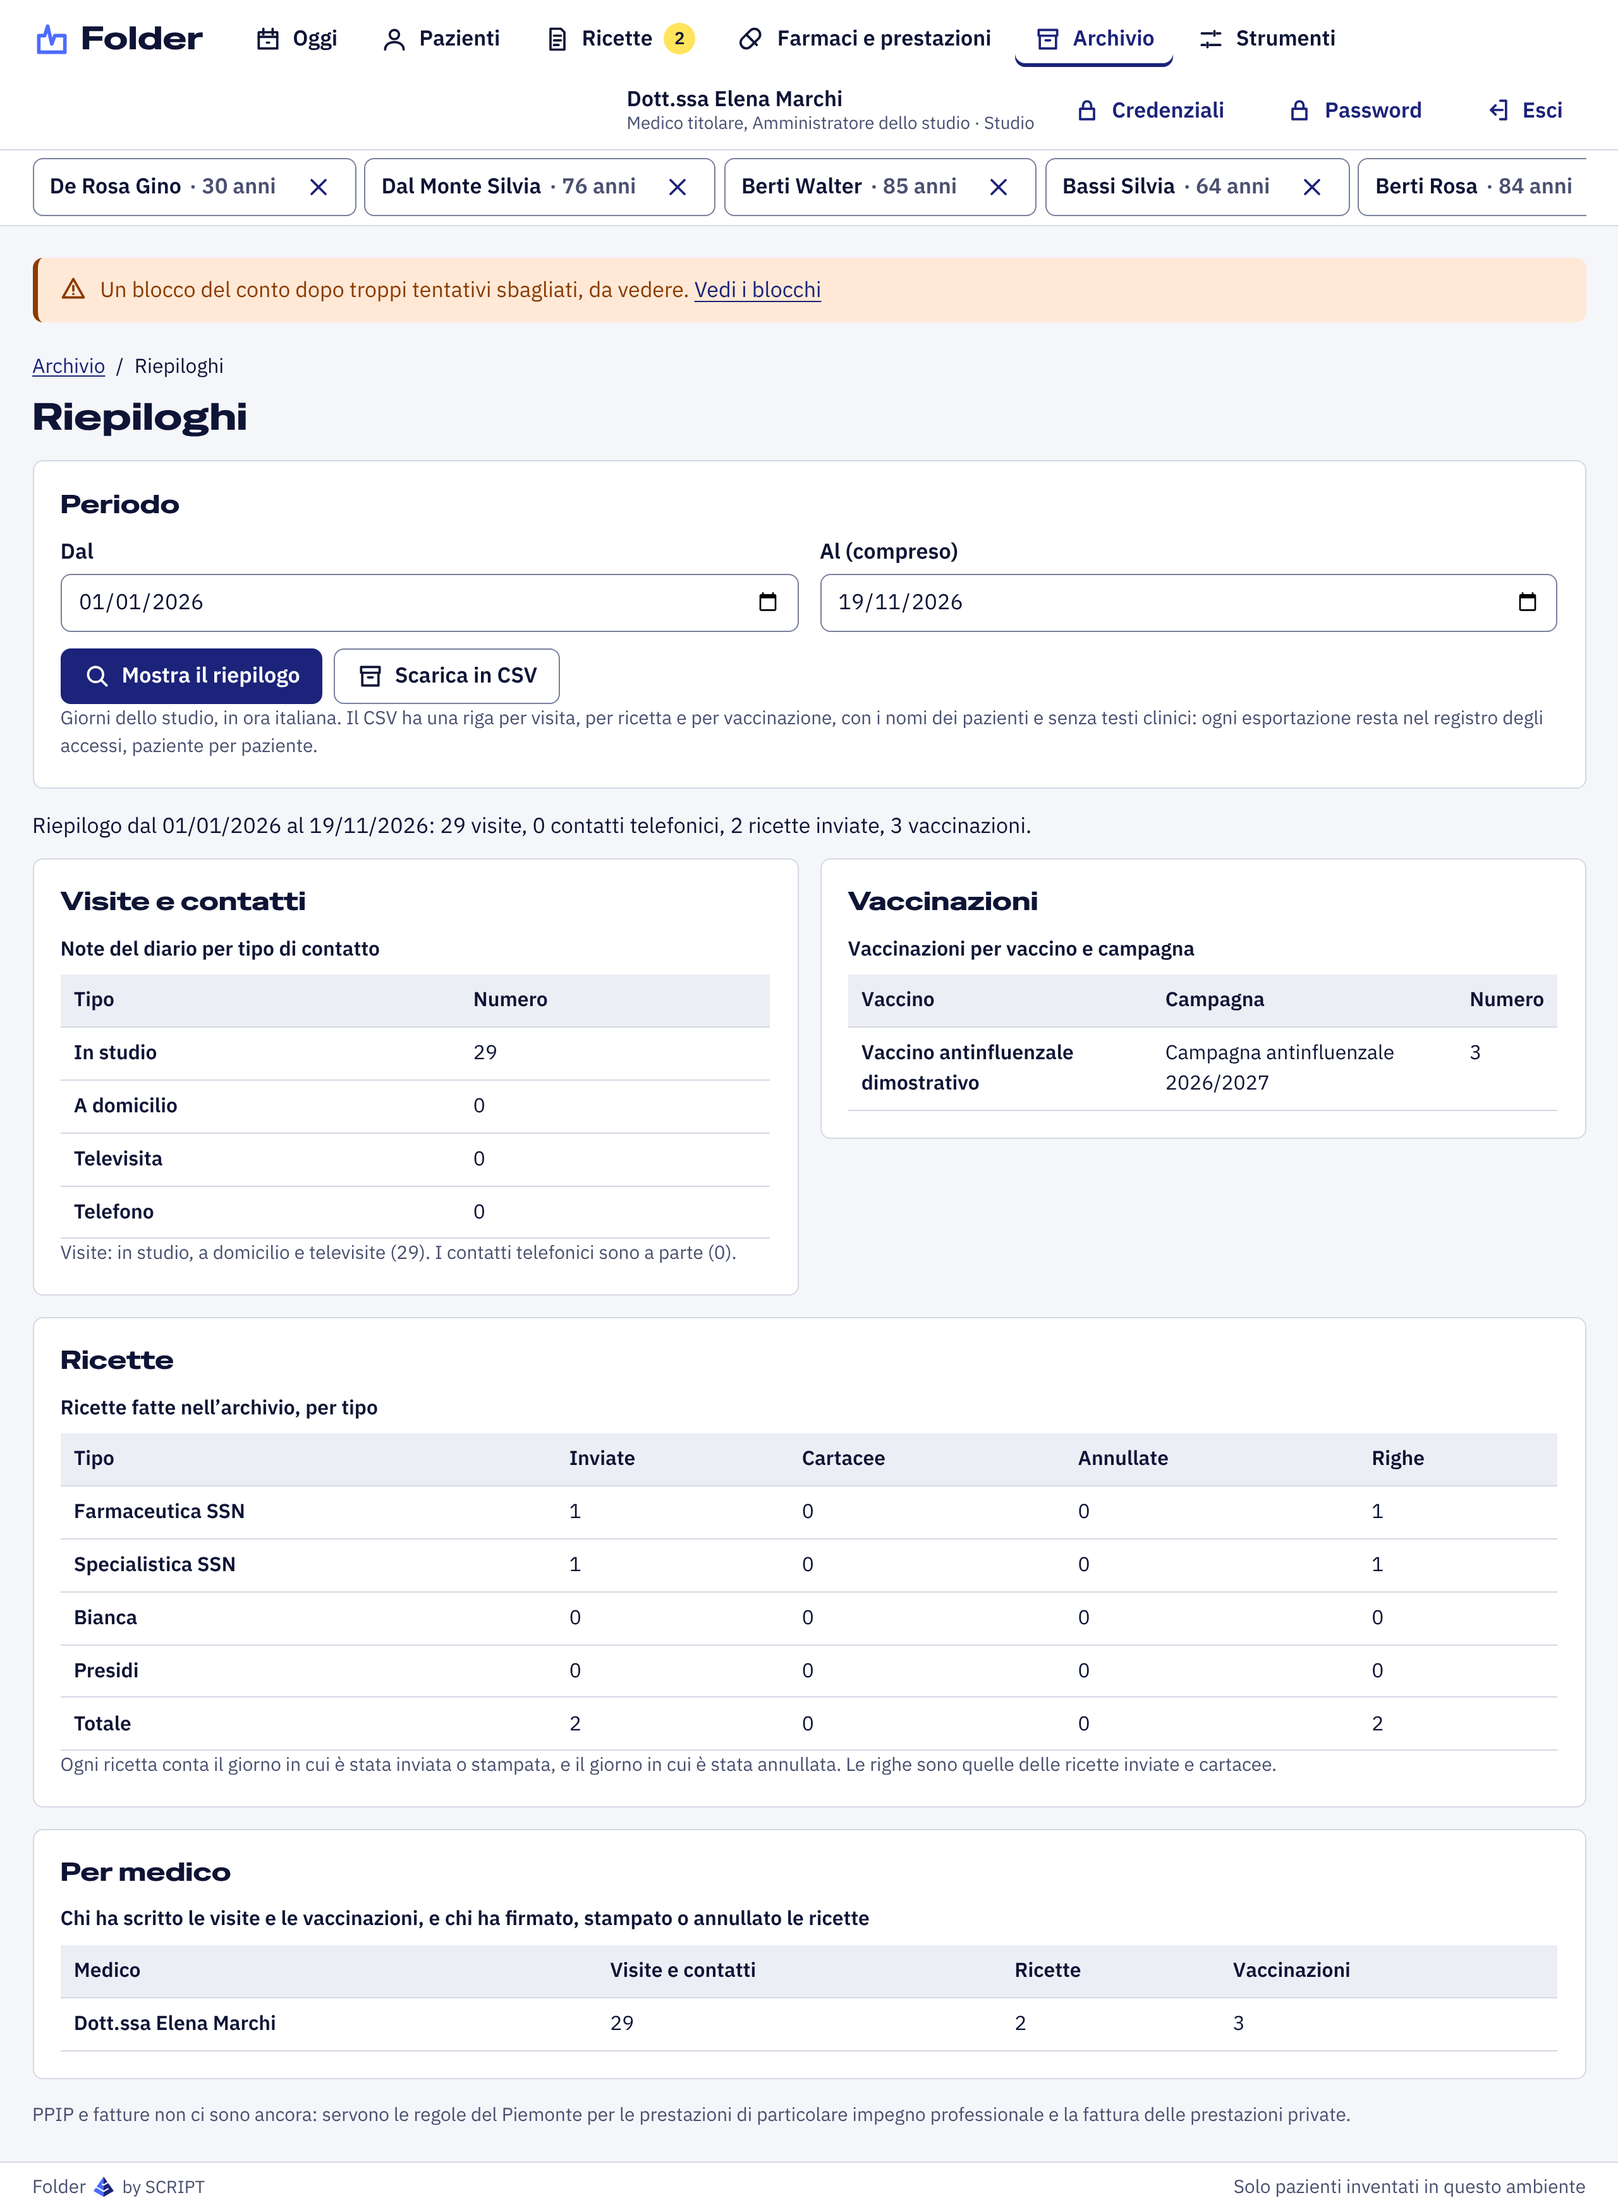
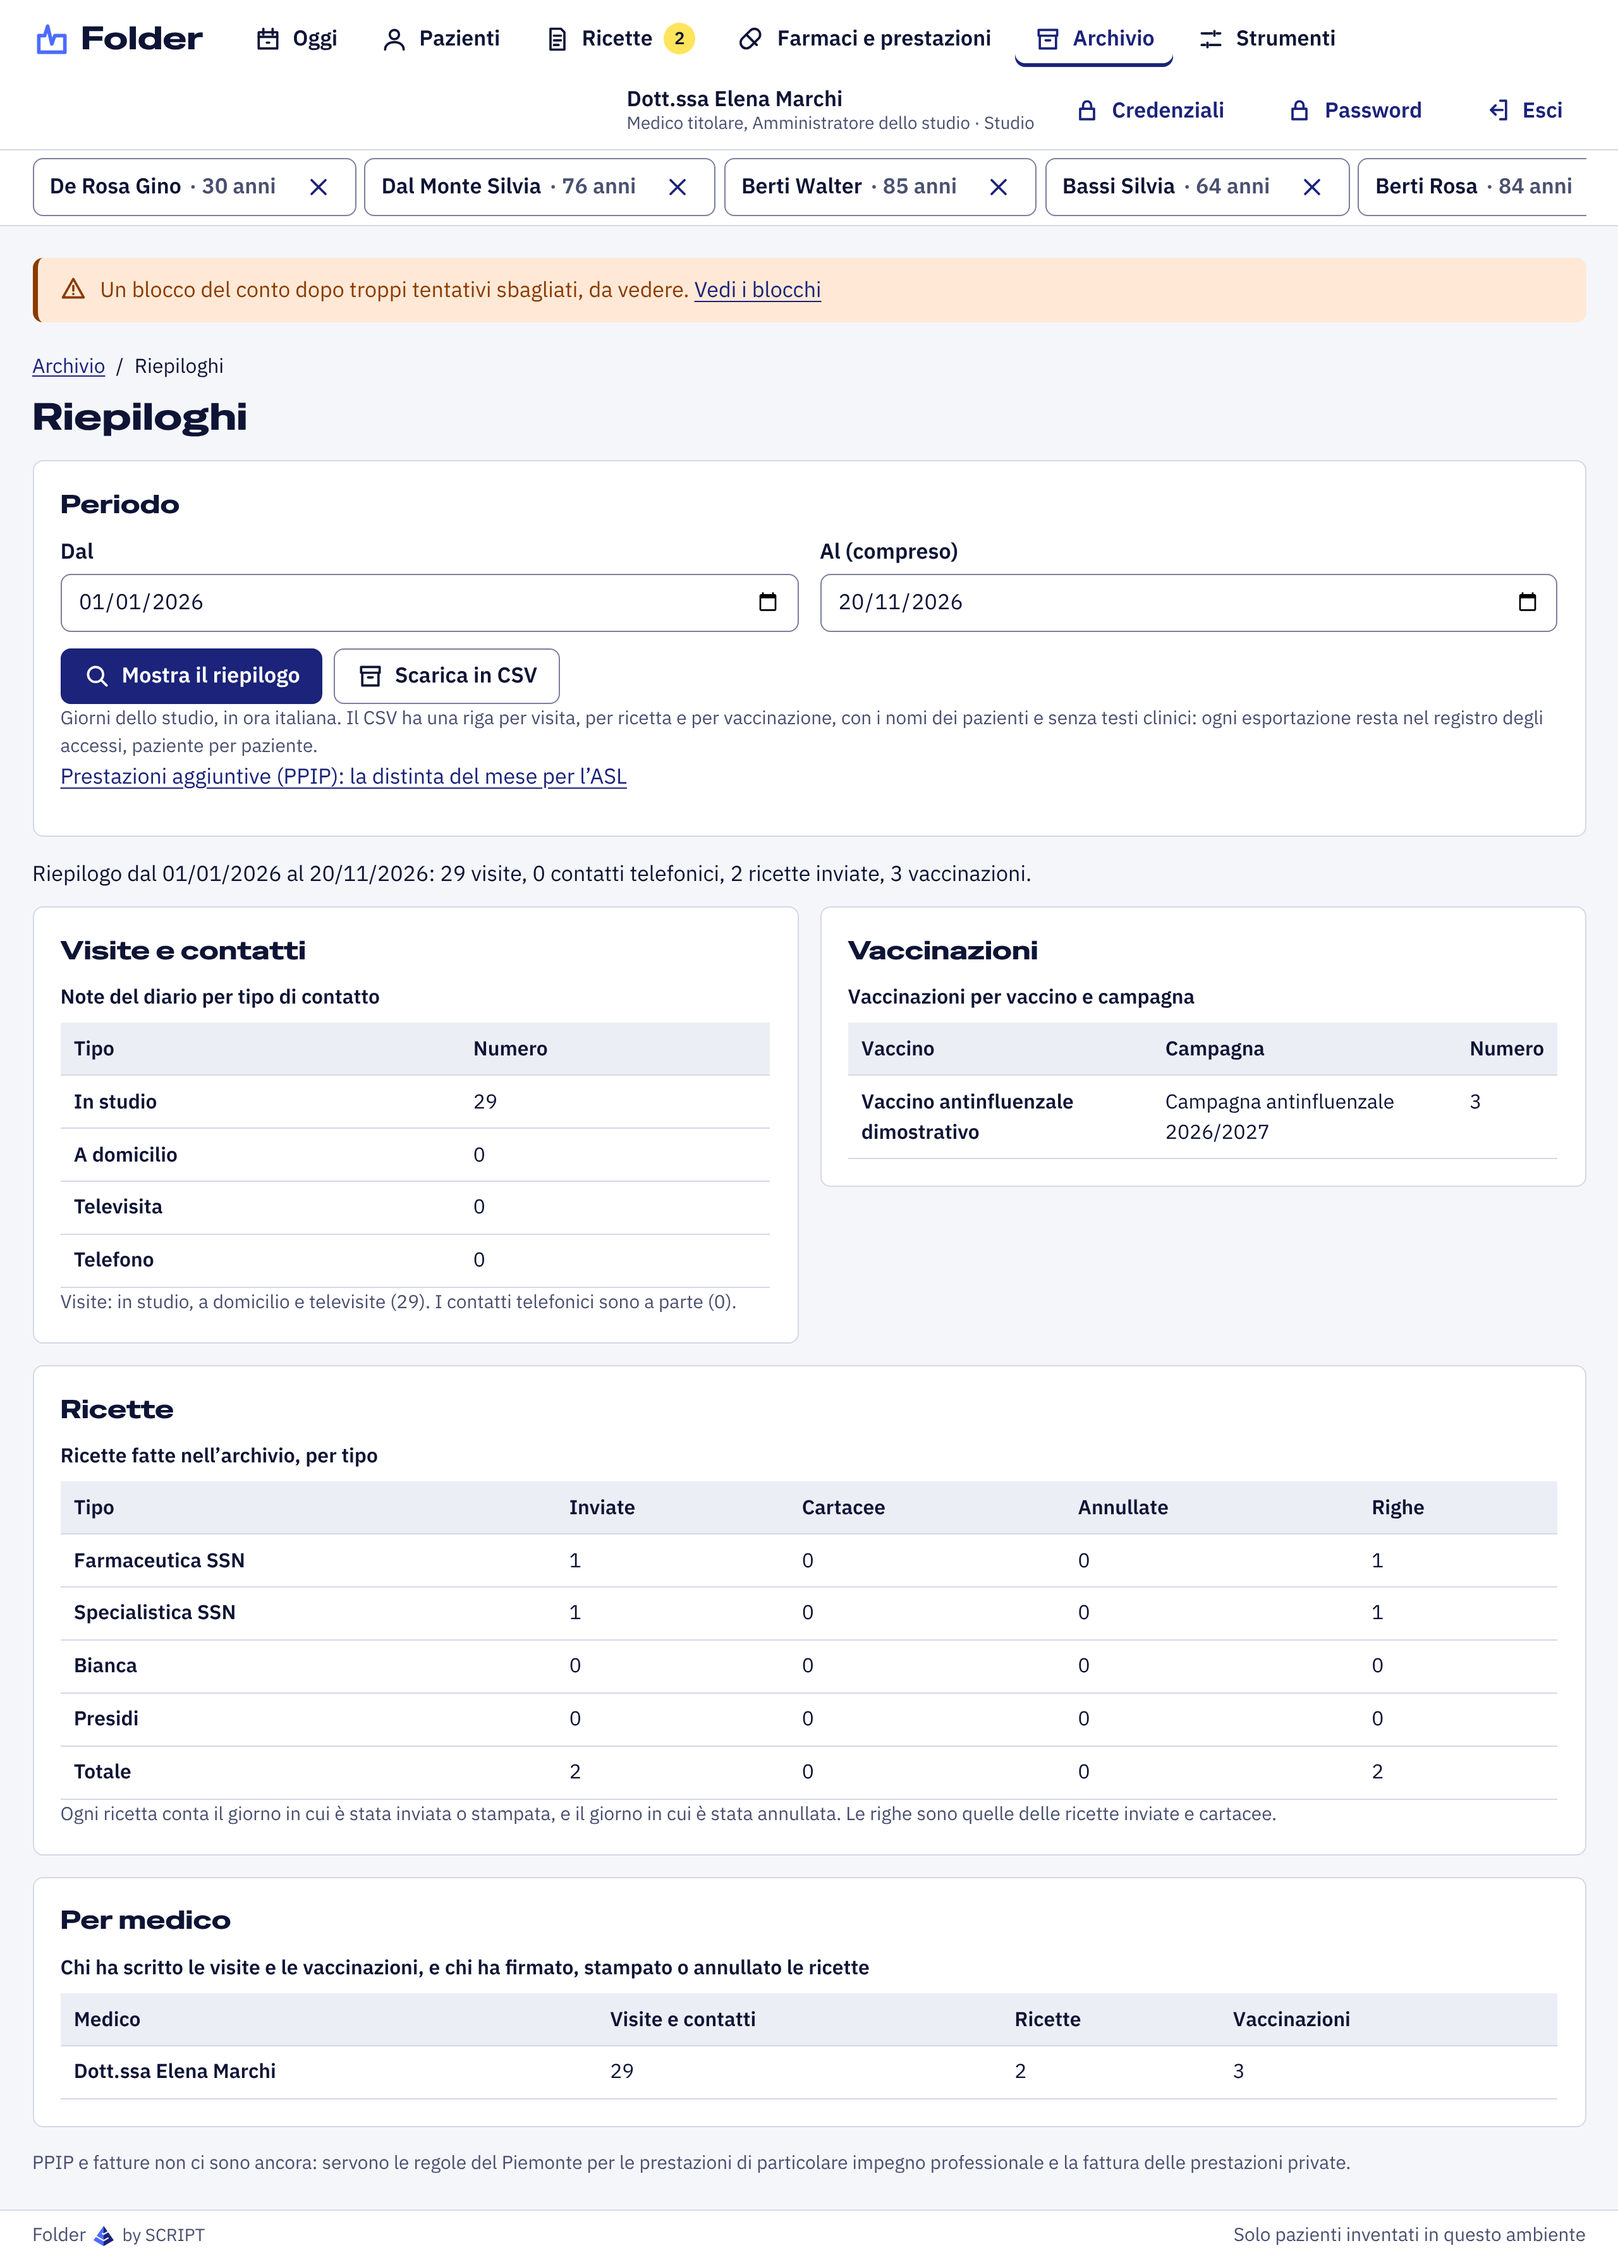
PPIP: accordo aziendale nuovo provato, schermate 72 e 73 (D212)
Prova del servizio: un accordo aziendale inventato, importato come file nuovo,
cambia il compenso della prima medicazione dal 1/11/2026 e aggiunge una voce
sua; prima di quella data il catalogo resta com'era, e le prestazioni già
registrate tengono il compenso del giorno dell'esecuzione.

Schermate nuove: prestazioni aggiuntive in cartella (72) e distinta del mese
(73); rifatte quelle che mostrano i collegamenti nuovi (cartella, archivio,
riepiloghi).

Claude-Session: https://claude.ai/code/session_01Tv4Yo344qXk13ZKY4SDVSw

diff --git a/apps/api/test/ppip.test.ts b/apps/api/test/ppip.test.ts
@@ -283,7 +283,10 @@ describe('prestazioni aggiuntive (PPIP, D212)', () => {
       `/api/archivi/${s.archives.titolare}/ppip/esportazione?mese=2026-10`,
     );
     expect(res.statusCode, res.body).toBe(200);
-    const lines = res.body.replace(/^\uFEFF/, '').trim().split('\r\n');
+    const lines = res.body
+      .replace(/^\uFEFF/, '')
+      .trim()
+      .split('\r\n');
     expect(lines[0]).toBe(
       'Data di effettuazione;Cognome;Nome;Indirizzo;Codice fiscale;Codice prestazione;Prestazione;Quantità;Luogo;Autorizzazione;Compenso unitario (euro);Importo (euro)',
     );
@@ -399,6 +402,61 @@ describe('prestazioni aggiuntive (PPIP, D212)', () => {
     expect(await refused('delete from ppip_report')).toMatch(/non si modificano/);
     const counted = await t.db.select().from(ppipRecord);
     expect(counted.length).toBeGreaterThanOrEqual(8);
+  });
+
+  it('un accordo aziendale nuovo è un file da importare: vale dalla sua data, il passato resta', async () => {
+    // Accordo dell'ASL inventato, in vigore dal 1/11/2026: A1 pagata di più e una voce sua.
+    const dir = join(work, 'trascrizioni-asl', 'ppip');
+    mkdirSync(dir, { recursive: true });
+    writeFileSync(
+      join(dir, 'asl-di-prova-2026.json'),
+      JSON.stringify({
+        tipo: 'prestazioni_aggiuntive',
+        serie: 'asl-di-prova-prestazioni-aggiuntive',
+        fonte: null,
+        chiave: null,
+        sha256_origine: null,
+        atto: 'Accordo aziendale di prova',
+        in_vigore_dal: '2026-11-01',
+        trascritto_da: 'Persona di prova',
+        trascritto_il: '2026-11-20',
+        controllato_da: 'Seconda persona di prova',
+      }),
+    );
+    writeFileSync(
+      join(dir, 'asl-di-prova-2026.csv'),
+      'codice;sezione;descrizione;autorizzazione;compenso;note\n' +
+        'A1;A;Prima medicazione;no;15,00;\n' +
+        'ASL1;C;Prestazione di prova dell’accordo aziendale;no;10,00;\n',
+    );
+    const report = await importReferenceData({
+      db: t.db,
+      syncDir: join(work, 'dati-pubblici'),
+      transcriptionsDir: join(work, 'trascrizioni-asl'),
+      mappings: loadMappings(),
+      importedBy: 'prova',
+    });
+    expect(report.map((r) => r.outcome)).toEqual(['importato']);
+    const at = async (data: string) =>
+      (await req('titolare', 'GET', `/api/prestazioni-aggiuntive/catalogo?data=${data}`)).json()
+        .voci as Voce[];
+    const before = await at('2026-10-31');
+    expect(before.find((v) => v.codice === 'A1')?.compenso).toBe(12.32);
+    expect(before.some((v) => v.codice === 'ASL1')).toBe(false);
+    const after = await at('2026-11-10');
+    expect(after.find((v) => v.codice === 'A1')?.compenso).toBe(15);
+    expect(after.filter((v) => v.codice === 'A1')).toHaveLength(1);
+    expect(after.map((v) => v.codice).slice(-2)).toEqual(['AIR35.4', 'ASL1']);
+    // Registrata dopo, la prima medicazione ha il compenso nuovo; quella di ottobre resta com'era.
+    expect(
+      (await register('titolare', pt.id, { codice: 'A1', data: '2026-11-10' })).statusCode,
+    ).toBe(201);
+    const list = (await req('titolare', 'GET', `/api/pazienti/${pt.id}/ppip`)).json()
+      .prestazioni as { codice: string; data: string; compensoUnitario: number }[];
+    expect(list.filter((p) => p.codice === 'A1').map((p) => [p.data, p.compensoUnitario])).toEqual([
+      ['2026-11-10', 15],
+      ['2026-10-05', 12.32],
+    ]);
   });
 
   it('formati della distinta come dati: ogni colonna usa un campo che esiste', () => {

diff --git a/apps/api/src/ppip/service.ts b/apps/api/src/ppip/service.ts
@@ -14,7 +14,8 @@ import type { AdditionalServiceItem, ReferenceData } from '../reference/lookup';
 /**
  * Prestazioni aggiuntive (PPIP, D212). Fonti: ACN della medicina generale 2022-2024, allegato 6
  * (prestazioni, compensi, distinta del comma 4, autorizzazione del comma 5); AIR del Piemonte 2024
- * (rendicontazione dal portale regionale). I controlli sono solo formali (regola 3): la voce deve
+ * (art. 35, comma 4: trasfusioni in ADI; art. 30: rendicontazione su supporto digitale, il cui
+ * modo diranno Regione e ASL). I controlli sono solo formali (regola 3): la voce deve
  * essere nel catalogo in vigore il giorno dell'esecuzione, la sezione B vuole gli estremi
  * dell'autorizzazione, la data non è futura né dopo il decesso.
  */

diff --git a/docs/interfaccia.md b/docs/interfaccia.md
@@ -85,6 +85,8 @@ All'accesso si sceglie un utente del seed (`medico`, `segreteria`, `sostituto`);
 | ![](schermate/69-farmaci-carenti-in-oggi.png)                   | Oggi, fra le cose da fare: i farmaci in terapia che sono nell'elenco AIFA dei carenti, con i pazienti che li prendono (A7, D202). Per la documentazione: ha il nome della ditta                                                                                                                                         |
 | ![](schermate/70-variazioni-aifa-in-oggi.png)                   | Oggi, fra le cose da fare: le variazioni AIFA sui farmaci in terapia, qui una confezione che l'anagrafica AIFA dà «Sospesa», con i pazienti (A7, D205). Per la documentazione: ha il nome della ditta                                                                                                                   |
 | ![](schermate/71-registri-aifa.png)                             | Dati del farmaco: i registri e i piani terapeutici AIFA per lo stesso ATC, con tipo, data, patologia, indicazione rimborsata e la scheda sul sito di AIFA (D206)                                                                                                                                                        |
+| ![](schermate/72-prestazioni-aggiuntive-in-cartella.png)        | Prestazioni aggiuntive della cartella: voci del catalogo in vigore il giorno dell'esecuzione, per sezione e con il compenso; la nota della voce e l'atto; per la sezione B gli estremi dell'autorizzazione; l'elenco con lo stato dell'invio (D212)                                                                     |
+| ![](schermate/73-distinta-prestazioni-aggiuntive.png)           | Distinta del mese per l'ASL: una riga per prestazione con i campi dell'allegato 6 dell'ACN (data, nome, cognome, indirizzo, codice fiscale), quantità e importo per voce, scadenza del 15, CSV, invio simulato dopo il controllo (D212)                                                                                 |
 
 Le schermate si rigenerano con `test/e2e/schermate.ts` (istruzioni in testa al file), su un database appena preparato con il seed.
 
